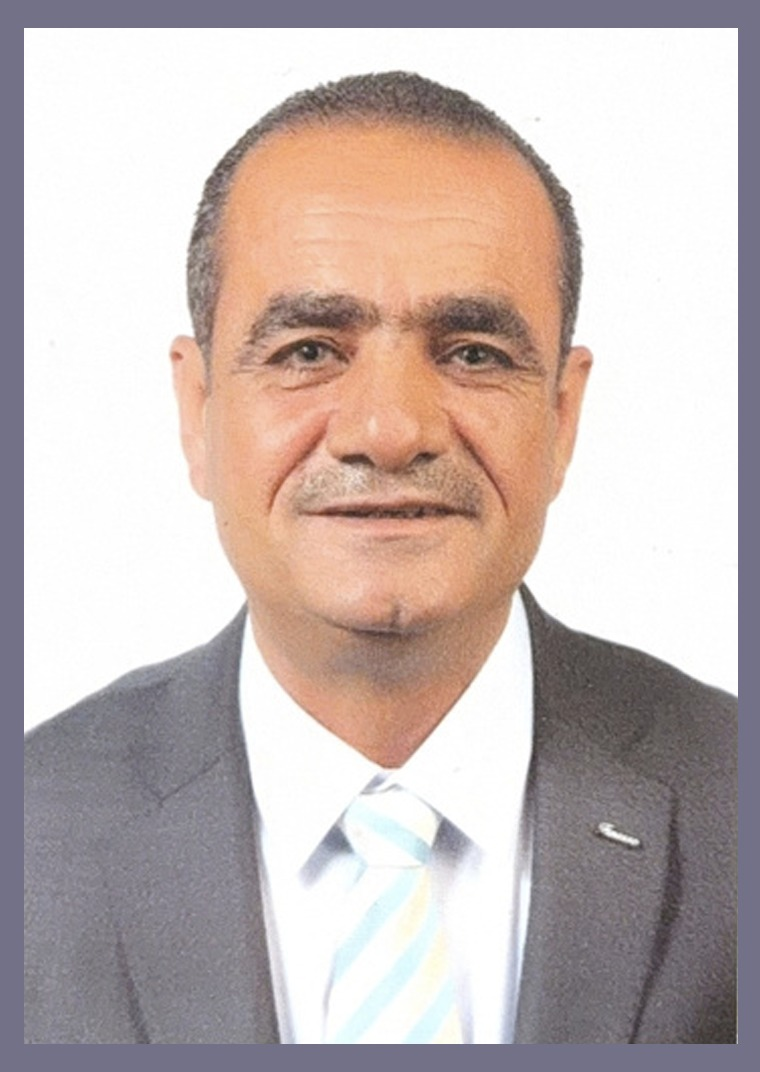
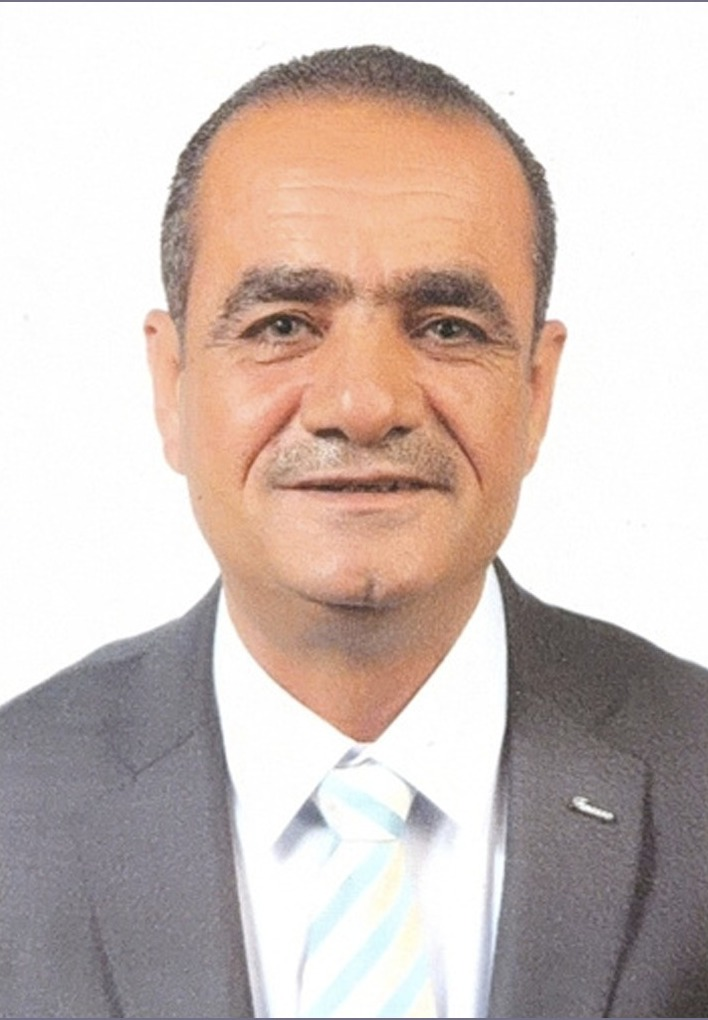
Crop decorative border out of chairman photo, enlarge and center it

diff --git a/src/routes/about.tsx b/src/routes/about.tsx
@@ -426,10 +426,11 @@ function AboutPage() {
                   <div className="mt-1 text-[10px] uppercase tracking-[0.22em] text-muted-foreground">
                     Chairman, Alsaid Group
                   </div>
-                  <div className="image-frame relative mt-6 aspect-[3/4] w-full max-w-[280px] border border-ink/10">
+                  <div className="image-frame relative mt-6 aspect-[3/4] w-full max-w-[320px] border border-ink/10">
                     <img
                       src={chairmanPortrait}
                       alt="Osama Alsaid, Chairman of Alsaid Group"
+                      className="object-top"
                       loading="lazy"
                     />
                   </div>
